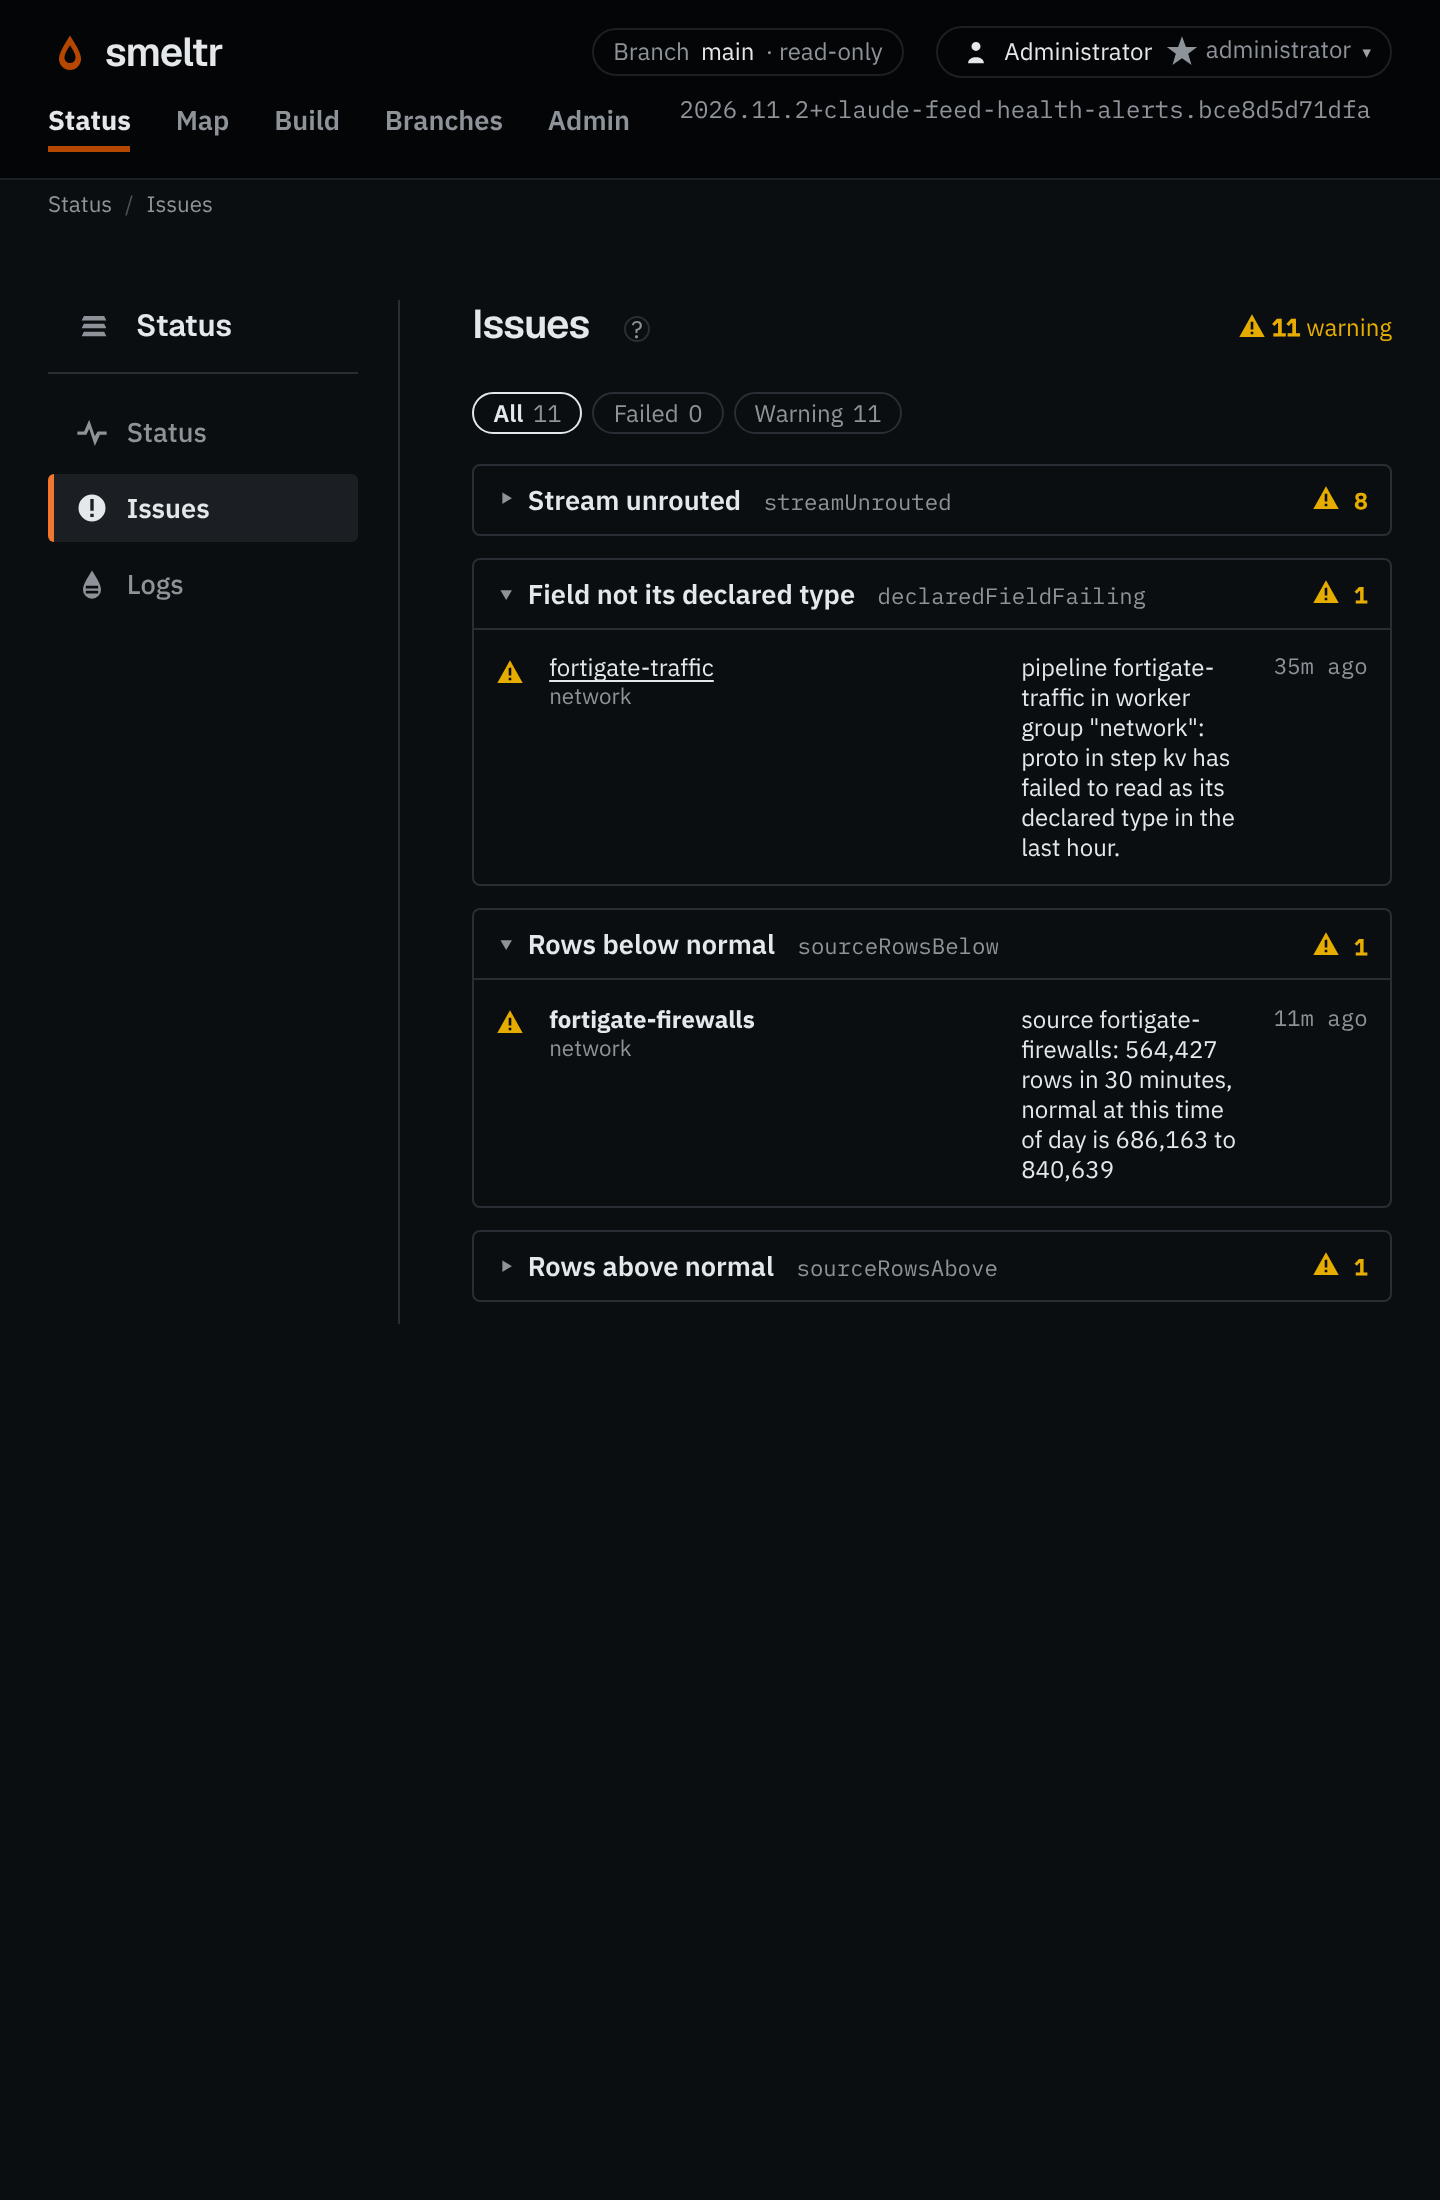
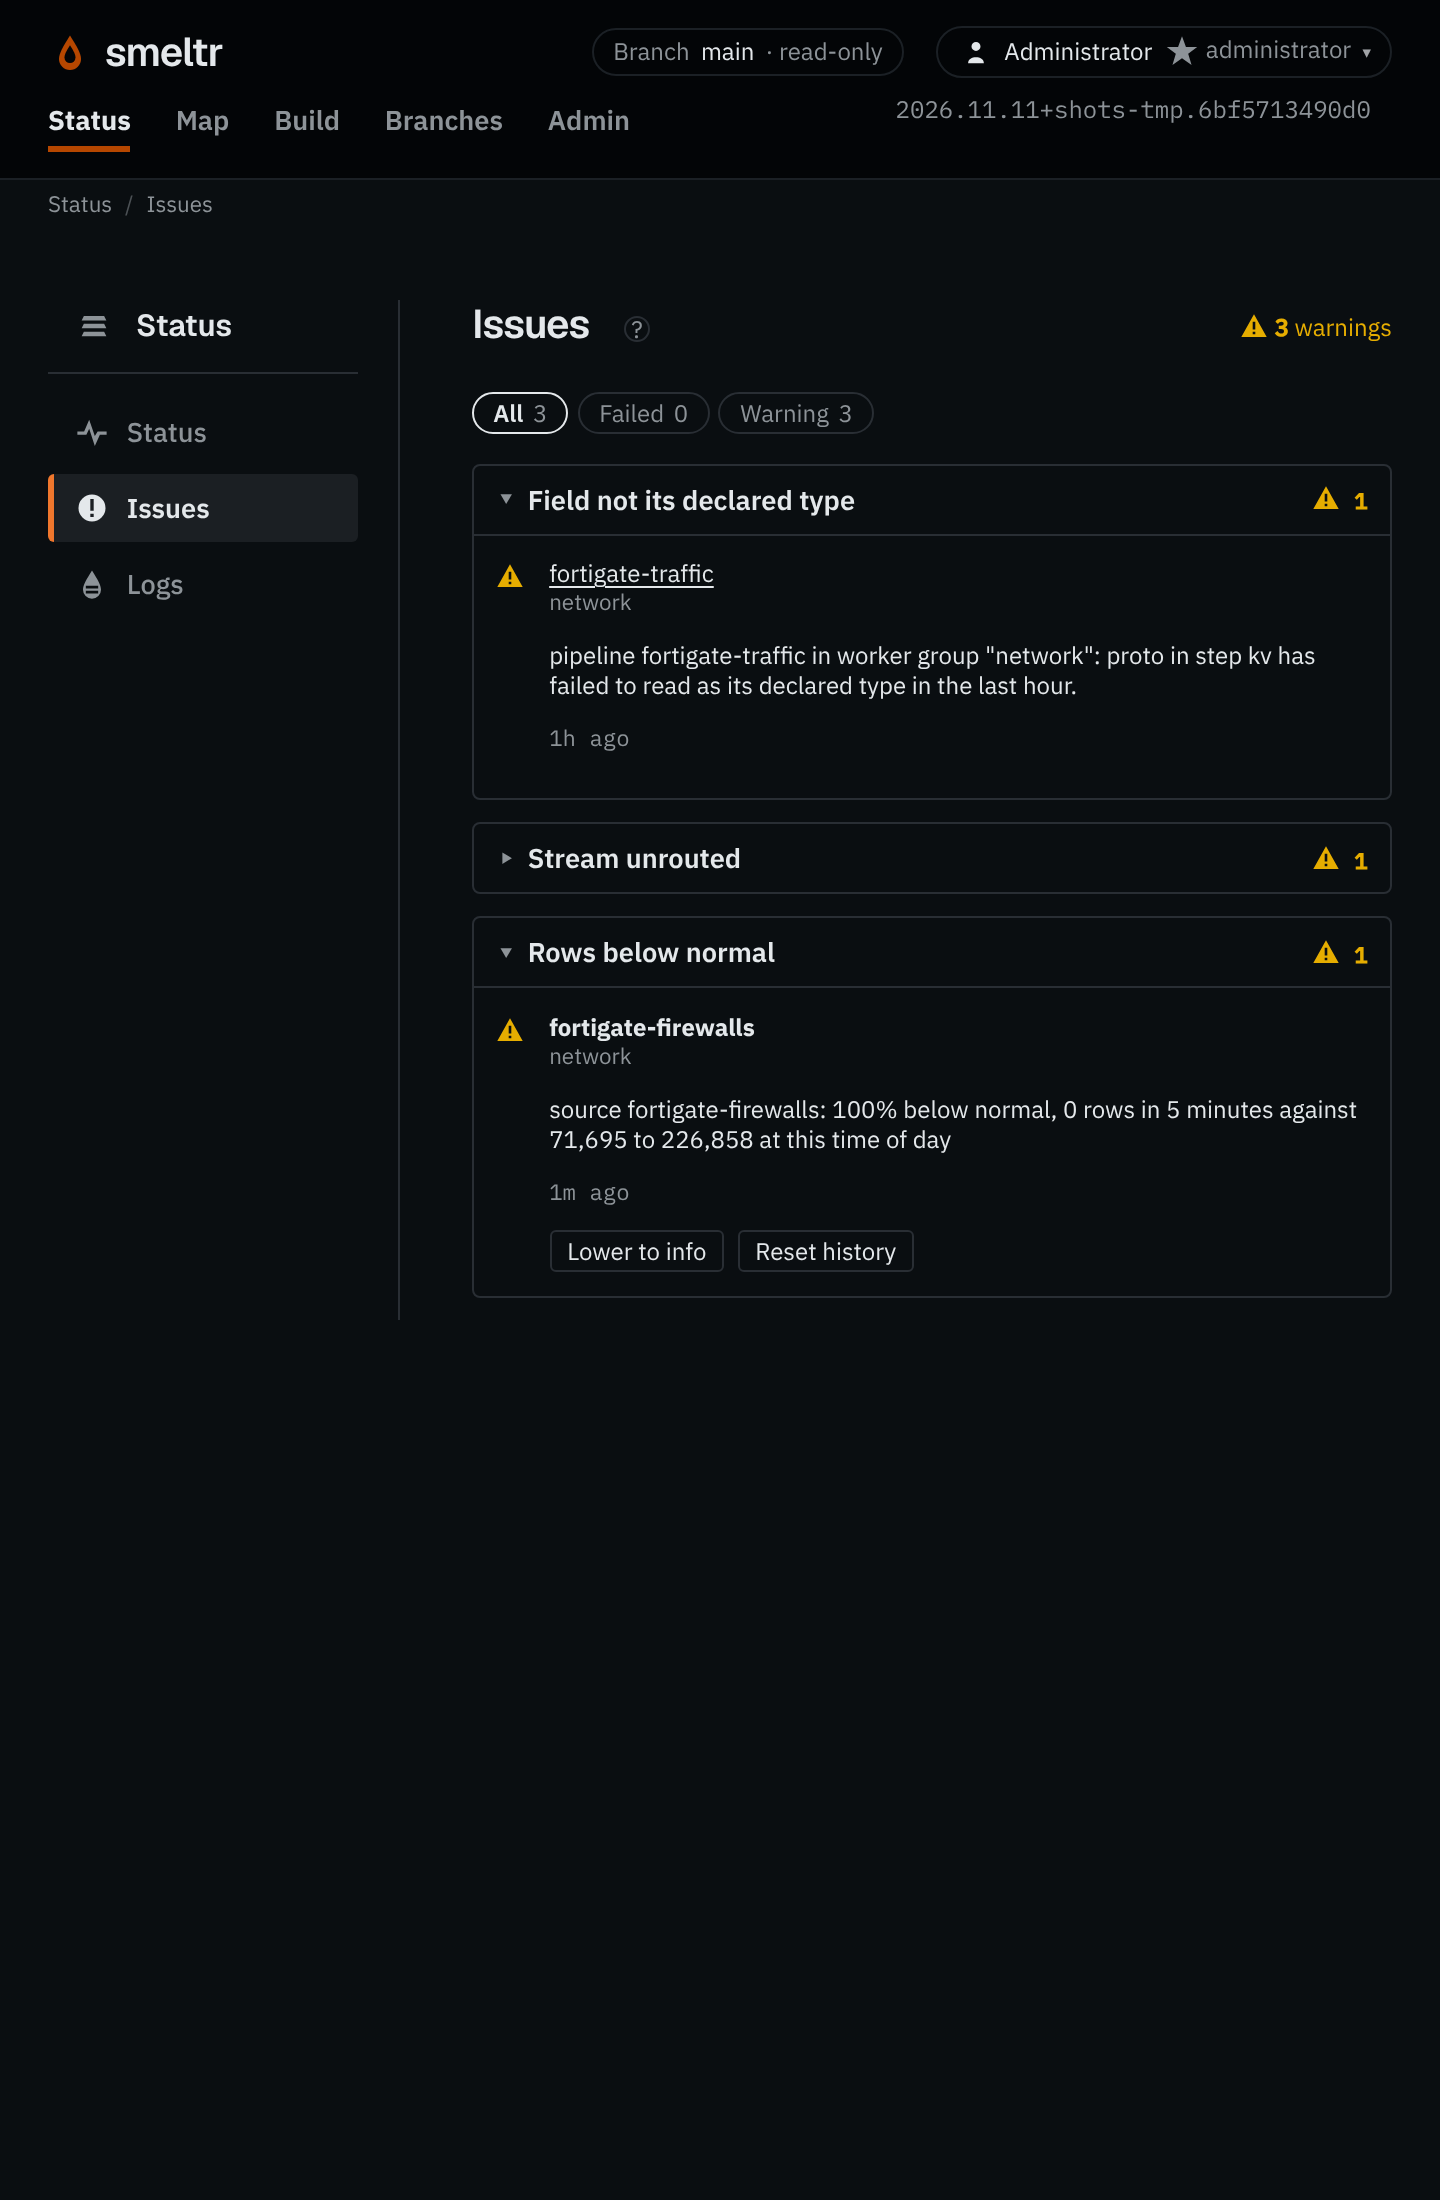
Show the normal detector on the website (#686)
The operations guide and the feed health page now say what the four widths, the gap and the History tab do, in place
of the 30-minute range and its width setting. The demo's FortiGate relay stops rather than halving, and the feed
health shots are taken again, with a new one of the History tab and the Issues row laid out by its list's width.

Claude-Session: https://claude.ai/code/session_016X7h2TF6fY2yjAYkvbcw2P

diff --git a/website/src/routes/feed-health/+page.svelte b/website/src/routes/feed-health/+page.svelte
@@ -25,38 +25,52 @@
   <section aria-labelledby="volume-heading">
     <h2 id="volume-heading">Too quiet, or too loud.</h2>
     <p>
-      Smeltr learns how many rows each source reads at each time of day, from its last seven days.
-      In the demo, FortiGate's logs reach Smeltr through two syslog relays. When one goes down, the
-      source falls to half of what it should read:
+      Smeltr learns how many rows each source reads at each time of day, from its past weeks. In the
+      demo, FortiGate's logs reach Smeltr through a syslog relay. When the relay goes down, the
+      source stops:
     </p>
     <ProductScreenshot
       source="feed-health-volume"
       height={1800}
       crop={{ x: 2150, y: 470, width: 690, height: 950 }}
-      alt="The Map's panel for the fortigate-firewalls source: Rows below normal, input 171 rows a second, expected 378 to 465. Its 24-hour chart follows the expected band through the day, then falls to half."
-      caption="Over the last 24 hours the source reads within its band, until it falls to half."
+      alt="The Map's panel for the fortigate-firewalls source: Rows below normal, input 0 rows a second, expected 228 to 746. Its 24-hour chart runs inside the expected band through the day, then twice drops to nothing."
+      caption="Over the last 24 hours the source reads within its band, until the relay stops, twice."
     />
     <p>
-      Within ten minutes, Smeltr raises an issue. It shows on the Issues page and the Map, and goes
-      to every alert channel that takes it.
+      Within twenty minutes, Smeltr raises an issue. It shows on the Issues page and the Map, and
+      goes to every alert channel that takes it.
     </p>
     <ProductScreenshot
       source="feed-health-issues"
       height={1800}
-      crop={{ x: 472, y: 758, width: 2360, height: 176 }}
+      crop={{ x: 472, y: 756, width: 2360, height: 178 }}
       phone={{
         source: 'feed-health-issues-phone',
         height: 2200,
         width: 1440,
-        crop: { x: 472, y: 922, width: 920, height: 299 },
+        crop: { x: 472, y: 916, width: 920, height: 382 },
       }}
-      alt="The Issues page: Rows below normal, for the fortigate-firewalls source, which read 564,427 rows in 30 minutes where 686,163 to 840,639 is normal at this time of day."
+      alt="The Issues page: Rows below normal, for the fortigate-firewalls source, which read 0 rows in 5 minutes where 71,695 to 226,858 is normal at this time of day."
       caption="The Issues page names the source, what it read and what is normal."
     />
     <p>
-      Smeltr starts warning once a source has three days of history. You set how wide the range is,
-      for every source, under Admin → System.
+      Smeltr starts warning once a source has three days of history. A source too sparse for its
+      rows to be counted, such as an audit log that writes a few rows a day, is watched for four
+      weeks instead, then warns once it goes half again as long without a row as its longest quiet
+      spell of the past year.
     </p>
+    <p>
+      Each source's History tab lists its warnings and longest quiet spells of the past year. A
+      warning, and a quiet spell during one, is not learned unless an editor marks it Normal. Any
+      other quiet spell is learned unless an editor marks it Outage:
+    </p>
+    <ProductScreenshot
+      source="feed-health-history"
+      height={1800}
+      crop={{ x: 2150, y: 470, width: 690, height: 1000 }}
+      alt="The Map's panel for the fortigate-firewalls source, History tab. Warnings: Nov 11, 18:00, for 20 minutes, and Nov 11, 17:15, for 44 minutes. Longest quiet spells: Nov 11, 17:20, for 15 minutes, inside the older warning. Each row has a Normal and Outage switch, set to Outage."
+      caption="A warning lasts until no width reads the source below normal, so it outlasts the quiet spell inside it. None of the three is learned."
+    />
   </section>
   <section aria-labelledby="drift-heading">
     <h2 id="drift-heading">A field stops matching.</h2>
@@ -69,12 +83,12 @@
     <ProductScreenshot
       source="feed-health-issues"
       height={1800}
-      crop={{ x: 472, y: 558, width: 2360, height: 176 }}
+      crop={{ x: 472, y: 464, width: 2360, height: 176 }}
       phone={{
         source: 'feed-health-issues-phone',
         height: 2200,
         width: 1440,
-        crop: { x: 472, y: 572, width: 920, height: 318 },
+        crop: { x: 472, y: 464, width: 920, height: 336 },
       }}
       alt="The Issues page: Field not its declared type, for the fortigate-traffic pipeline, whose field proto has failed to read as its declared type in the last hour."
       caption="The Issues page names the pipeline, the field and the step."

diff --git a/website/src/routes/docs/operations/+page.svelte b/website/src/routes/docs/operations/+page.svelte
@@ -29,10 +29,13 @@
       leader. Check the running commit to see whether deployment succeeded.
     </li>
     <li>
-      Trace the affected source, pipeline and destination in the map. Inspect throughput and owned
-      partitions before changing thread limits. A source warns when its rows in the last 30 minutes
-      fall outside its expected range, learned from the same time of day over the last week. Set how
-      wide that range is in Admin → System → General.
+      Trace the affected source, pipeline and destination on the Map. Inspect throughput and owned
+      partitions before changing thread limits. A source warns when its rows over the last 5
+      minutes, 30 minutes, 6 hours or 24 hours stay below the range it normally reads at that time
+      of day, learned from its past weeks, and informs when its last 30 minutes are above it. A
+      source too sparse for those warns once it goes half again as long without a row as its longest
+      quiet spell of the past year. A source's History tab on the Map lists its warnings and longest
+      quiet spells, and an editor marks each Normal, so it is learned, or Outage, so it is not.
     </li>
     <li>
       Use Logs to narrow by level, worker, worker group, message and time. Preserve timestamps,

diff --git a/tools/screenshots/outage.py b/tools/screenshots/outage.py
@@ -1,12 +1,12 @@
 #!/usr/bin/env python3
-"""Take one of a stream's two relays down until the leader says its source reads below normal, capture the pages
-that show it, then bring the relay back.
+"""Take a stream's relay down until the leader says its source reads below normal, capture the pages that show it,
+then bring the relay back.
 
     python3 outage.py [topic]      # default syslog.fortigate
 
-The shots are `outage.json`'s. The source is judged on its last 30 minutes against the band its history gives, so the
-warning comes once enough of that window reads half: ten minutes or so. The shots wait for `SHOWN_DOWN` of half, so
-the Map's 24-hour chart shows a drop wide enough to see.
+The shots are `outage.json`'s. The source is judged at its shortest width, 5 minutes, and warns once four readings in a
+row are below the range its history gives: twenty minutes or so. The shots wait for `SHOWN_DOWN` at least, so the
+Map's 24-hour chart shows a drop wide enough to see.
 """
 
 import os
@@ -18,7 +18,6 @@ import bundle
 import stage
 
 topic = sys.argv[1] if len(sys.argv) > 1 else "syslog.fortigate"
-RELAYS = 2
 SHOWN_DOWN = 15 * 60
 source = next(s["id"] for s in bundle.NETWORK_SOURCES + bundle.APPS_SOURCES if topic in s["topics"])
 
@@ -29,8 +28,8 @@ def traffic(**env):
                 dict(os.environ, **env))
 
 
-stage.log(f"taking one of {topic}'s {RELAYS} relays down")
-traffic(SMELTR_DEMO_DOWN=f"{topic}/{RELAYS}")
+stage.log(f"taking {topic}'s relay down")
+traffic(SMELTR_DEMO_DOWN=topic)
 down_at = time.monotonic()
 try:
     # The leader ends a session that reports no activity for a while, and API calls report none, so each poll asks

diff --git a/tools/screenshots/README.md b/tools/screenshots/README.md
@@ -68,9 +68,9 @@ graph LR
   within the settle.
 - **Incident** (`incident.py`). Issues and a Status that needs attention need something wrong: it freezes
   fw-collector-02 until the leader reports it silent, captures those two pages, and thaws it.
-- **Outage** (`outage.py`). The feed health page needs a feed at half its volume: it takes one of FortiGate's two
-  relays down, waits until the leader warns that the source reads below normal, captures the Map and Issues, and
-  brings the relay back.
+- **Outage** (`outage.py`). The feed health page needs a feed that stops: it takes FortiGate's relay down, waits
+  until the leader warns that the source reads below normal, captures the Map, its History tab and Issues, and brings
+  the relay back.
 
 ## Setup
 
